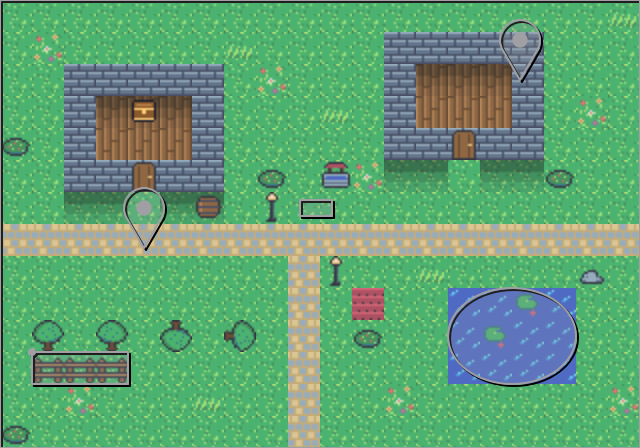
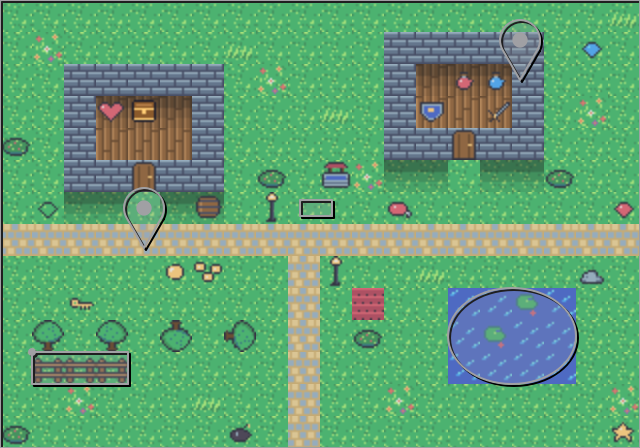
full-demo: 独立道具图块集 items.png（firstgid 33），地图摆放道具

diff --git a/examples/full-demo/gen_tileset.py b/examples/full-demo/gen_tileset.py
@@ -181,3 +181,51 @@ shape(tile(31),["................","................","....oooooooo....","...obb
  "..obhbbbbbbbbo..","..ossssssssssso.","..obhbbbbbbbbo..","..obhbbbbbbbbo..","...ossssssssso..","...obbbbbbbbo...",
  "....oooooooo....","................","................","................"],{'o':'o','b':'b0','h':'b2','s':'s1'})
 img.save('tiles.png')
+
+# ---------- items.png: separate pickup/item tileset (8x3, 16px), same palette ----------
+img=Image.new('RGBA',(T*C,T*3),(0,0,0,0)); px=img.load()
+def gem(c,h): return (["................","................","................","......oooo......",".....occcco.....","....ochcccco....",
+ "...occcccccco...","....occcccco.....",".....occcco.....","......occo......",".......oo.......","................"],{'o':'o','c':c,'h':h})
+def potion(c): return (["................","................","......oooo......",".......bb.......","......oxxo......",".....occcco.....",
+ "....ochccccco...","....occcccco....","....occcccco....",".....occcco.....","......oooo......","................"],{'o':'o','b':'b0','x':'s2','c':c,'h':'s3'})
+def key(c): return (["................","................","....ooo.........","...occco........","...oc.cooooooo..","...occcccccccco.",
+ "....ooo.ococo...","........o.o.o...","................"],{'o':'o','c':c})
+art={
+0:(["................","......oooo......","....oyyyyyo.....","...oyhhyyyyo....","...oyhyyyyyo....","...oyyyyyyyo....",
+    "...oyyyyyyyo....","....oyyyyyo.....","......oooo......"],{'o':'o','y':'y0','h':'s3'}),
+1:(["................","..oooo..........",".oyyyyo...oooo..",".oyhyyo..oyyyyo.",".oyyyyo..oyhyyo.","..oooo...oyyyyo.",
+    "......oooo.ooo..",".....oyyyyo.....",".....oyhyyo.....",".....oyyyyo.....","......oooo......"],{'o':'o','y':'y0','h':'s3'}),
+2:gem('w1','w2'),3:gem('r1','s3'),4:gem('g0','g2'),5:gem('p0','s3'),
+6:potion('r1'),7:potion('w1'),8:potion('g0'),
+9:key('y0'),10:key('s2'),
+11:([".............oo.","............oso.","...........oso..","..........oso...","....o....oso....",".....o..oso.....",
+     "......oyso......","......byo.......",".....bo.o.......","....bo...o......"],{'o':'o','s':'s2','y':'y0','b':'b1'}),
+12:(["................","..oooooooooooo..","..osssssssssso..","..osrrrrrrrrso..","..osrryyyrrrso..","..osrryyyrrrso..",
+     "..osrrrrrrrrso..","...osrrrrrrso...","....osrrrrso....",".....ossso......","......ooo......."],{'o':'o','s':'s2','r':'w0','y':'y0'}),
+13:(["................","...ooo...ooo....","..orrro.orrro...",".orhrrrorrrrro..",".orrrrrrrrrrro..","..orrrrrrrrro...",
+     "...orrrrrrro....","....orrrrro.....",".....orrro......","......oro.......",".......o........"],{'o':'o','r':'r1','h':'s3'}),
+14:(["................","...oooooooooo...","..obsssssssbbo..","..obsllllllsbo..","...osssssssso...","...osllllllso...",
+     "...osssssssso...","...osllllllso...","..obsssssssbbo..","..obbsssssssbo..","...oooooooooo..."],{'o':'o','s':'sa','l':'d1','b':'b2'}),
+15:(["................","................","....oooooo......","...orrrrrro.....","..orrhrrrrro....","..orrrrrrrro....",
+     "..orrrrrrrroo...","...orrrrrrobso..","....oooooo.oso..","...........oo..."],{'o':'o','r':'r1','h':'s3','b':'s3','s':'s2'}),
+16:(["................","................","......ooo.......",".....oyyyo......","....oyhyyyo.....","...oyyyyyyyo....",
+     "..obbbbbbbbbo...","..oyyyyyyyyyo...","...ooooooooo...."],{'o':'o','y':'y1','h':'y0','b':'b0'}),
+17:(["................","...........oy...","..........o.y...","......oooo......","....oossssoo....","...osshssssso...",
+     "...osshsssssso..","...osssssssso...","....osssssso....",".....oooooo....."],{'o':'o','s':'c0','h':'s2','y':'y0'}),
+18:(["................","...oooooooooo...","..obhhhhhhhhbo..","..obbbbbbbbbbo..","..oyyyyyyyyyyo..","..obbbbyybbbbo..",
+     "..obbbbyybbbbo..","..obbbbbbbbbbo..","..oyyyyyyyyyyo..","...oooooooooo..."],{'o':'o','b':'b0','h':'b2','y':'y0'}),
+19:(["................","......oooo......",".....oyyyyo.....","....oyhhhhyo....","....oyhwwhyo....","....oyhhhhyo....",
+     ".....oyyyyo.....","......oyyo......",".....oyyyyo.....","......oooo......"],{'o':'o','y':'y0','h':'y1','w':'w1'}),
+20:(["................",".......oo.......","......oyyo......",".....oyrryo.....","....oyrhrryo....","...oyrrrrrryo...",
+     "....oyrrrryo....",".....oyrryo.....","......oyyo......",".......oo......."],{'o':'o','y':'y0','r':'p0','h':'s3'}),
+21:(["................","................","....oooooooo....","...obbbbbbbbo...","...oyyyyyyyyo...","...owwwwwwwwo...",
+     "...obbbbbbbbo...","...oyyyyyyyyo...","....oooooooo...."],{'o':'o','b':'b0','y':'y0','w':'s3'}),
+22:([".......o........","......oyo.......",".....oyyyo......","..oooyhyyooo....","..oyyyyyyyyyo...","...oyyyyyyyo....",
+     "....oyyyyyo.....","...oyyoooyyo....","...oyo...oyo....","...oo.....oo...."],{'o':'o','y':'y0','h':'s3'}),
+23:(["................","....oooooooo....","...ow.w.w.w.o...","...oooooooooo...","...os.s.s.s.o...","...oooooooooo...",
+     "...ob.b.b.b.o...","...oooooooooo..."],{'o':'o','w':'s3','s':'s2','b':'b2'}),
+}
+for i,(a,pal) in art.items():
+    a=["................"]*((16-len(a))//2)+a
+    shape(tile(i),a,pal)
+img.save('items.png')

diff --git a/examples/full-demo/README.md b/examples/full-demo/README.md
@@ -16,12 +16,12 @@ bash validate.sh         # （可选）需要 apt 安装 tiled xvfb：用官方 
 
 | 文件 | 说明 |
 |---|---|
-| `tiles.png` / `gen_tileset.py` | 图块集图片（原创程序化像素画，随仓库同许可；本地 id 布局见 gen_tileset.py 文件头，gid = id+1） |
+| `tiles.png` / `items.png` / `gen_tileset.py` | items.png = 内嵌道具图块集 items（firstgid 33，24 个：金币、多色宝石、药水、钥匙、剑、盾、爱心、卷轴、食物、炸弹、宝箱、星星等）；图块集图片（原创程序化像素画，随仓库同许可；本地 id 布局见 gen_tileset.py 文件头，gid = id+1） |
 | `village.tsx` | 外部图块集：含 `terraintypes`（草/土/水）与 `wangsets`（角色 Grass/Dirt、边色 Road） |
 | `templates/chest.tx` | XML 模板：图块对象（宝箱，带 tileset 引用和属性） |
 | `templates/sign.tj` | JSON 模板：矩形对象（路牌） |
 | `rules/rules.txt` + `rules/shadow.tmj` | 自动地图规则：墙下方是空的 → 在 Shadow 层画阴影（rule map 也是用 CLI 搭出来的） |
-| `build.sh` | 构建脚本（142 次 CLI 调用） |
+| `build.sh` | 构建脚本（156 次 CLI 调用） |
 | `mcp_demo.py` | MCP stdio 客户端示例（按 MCP 规范逐行 JSON-RPC） |
 | `render.py` | 极简 TMJ→PNG 渲染器（支持外部 .tsx、H/V/D 翻转位、无限 chunks、对象） |
 | `validate.sh` | 上游 Tiled 真值校验 |
@@ -35,7 +35,7 @@ bash validate.sh         # （可选）需要 apt 安装 tiled xvfb：用官方 
 | 步骤 | 做了什么 | 用到的命令 / 参数 |
 |---|---|---|
 | 0 | 看版本 | `version` |
-| 1 | 建 20×14 地图，挂外部 `.tsx` + 一个内嵌 PNG 图块集 | `new`、`tileset add --source`、`tileset add --image`、`tileset list` |
+| 1 | 建 20×14 地图，挂外部 `.tsx` + 内嵌道具图块集 items.png | `new`、`tileset add --source`、`tileset add --image`、`tileset list` |
 | 2 | 图层：Ground/Walls/Shadow/Deco/Objects，加一个临时层再删掉 | `layer rename/add/remove/list`、`--type tile|object` |
 | 3 | 铺草地、道路、池塘、房屋外墙、地板、门；4 棵树分别 原样/水平/垂直/旋转90° | `fill`、`set-tile --flip-h/--flip-v/--flip-d`、`get-layer --format csv|json` |
 | 4 | 把房屋 A 复制成房屋 B（墙 + 地板） | `stamp copy`、`stamp paste` |
